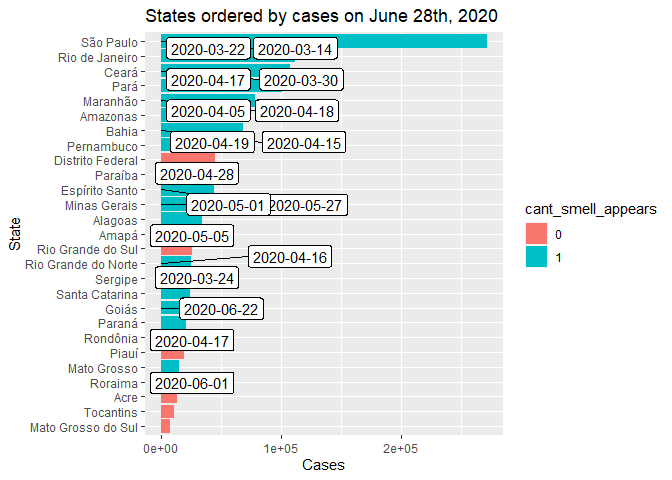
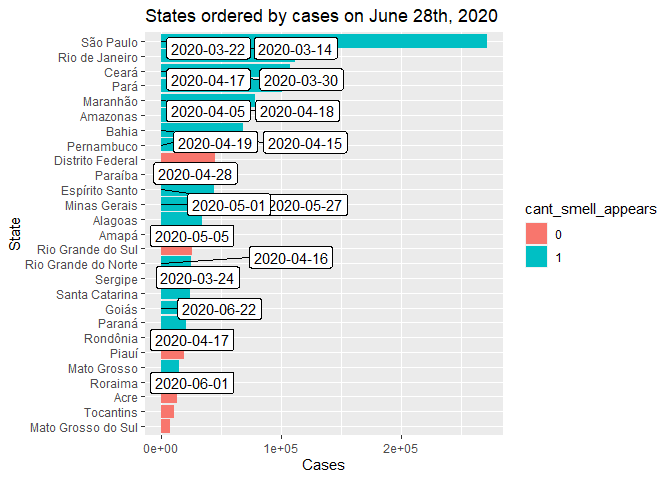
Updates to graphs

diff --git a/DataWork/google_trends/02a_analysis_with_refstat/05_analysis_with_restat.md b/DataWork/google_trends/02a_analysis_with_refstat/05_analysis_with_restat.md
@@ -377,6 +377,7 @@ trends_df %>%
   filter(date == "2020-06-28", !is.na(deaths)) %>% 
   count(deaths, state, cant_smell_appears, first_date_cant_smell) %>% 
   arrange(desc(deaths)) %>% 
+  mutate(cant_smell_appears = if_else(cant_smell_appears == 1, "Yes", "No")) %>% 
   ggplot()+ 
   geom_col(aes(fct_reorder(state, deaths), deaths, fill = cant_smell_appears)) +
   geom_label_repel(
@@ -392,10 +393,14 @@ trends_df %>%
   ) + 
   coord_flip() + 
   labs(
-    title = "States ordered by deaths on June 28th, 2020", 
+    title = "States ordered by COVID-19 deaths up to June 28th, 2020", 
     x = "State", 
-    y = "Deaths"
-  )
+    y = "COVID-19 Deaths", 
+    fill = "Search activity for I can't smell reported by Google", 
+    caption = "The white boxes indicate the date in which I can't smell\nappeared in Google Trends for the first time in each state", 
+    subtitle = "States where Google reported I can't smell searches are more affected by COVID-19,\nand the searches appeared earlier for most-affected states"
+  ) + 
+  theme_light()
 ```
 
 ![](05_analysis_with_restat_files/figure-html/unnamed-chunk-17-1.png)<!-- -->
@@ -478,7 +483,7 @@ trends_df %>%
 ```
 
 ```
-## # A tibble: 165,228 x 33
+## # A tibble: 167,874 x 33
 ##    date        hits hits_with_comps~ keyword geo   time  gprop category
 ##    <date>     <dbl>            <dbl> <chr>   <chr> <chr> <chr> <chr>   
 ##  1 2020-01-01     0                0 ajuda ~ BR-MG 2020~ web   0       
@@ -491,7 +496,7 @@ trends_df %>%
 ##  8 2020-01-08     0                0 ajuda ~ BR-MG 2020~ web   0       
 ##  9 2020-01-09     0                0 ajuda ~ BR-MG 2020~ web   0       
 ## 10 2020-01-10     0                0 ajuda ~ BR-MG 2020~ web   0       
-## # ... with 165,218 more rows, and 25 more variables: hits_compstate <dbl>,
+## # ... with 167,864 more rows, and 25 more variables: hits_compstate <dbl>,
 ## #   hits_adj <dbl>, state <chr>, sub_code_red <chr>, region <fct>, cases <int>,
 ## #   deaths <int>, estimate_2018_state <int>, census_2010_state <int>,
 ## #   perc_change <dbl>, categories <chr>, case_rate <dbl>, death_rate <dbl>,
@@ -525,7 +530,8 @@ week_geo <-
     mean_growth_rate_cases = mean(growth_rate_cases, na.rm = TRUE), 
     mean_growth_rate_deaths = mean(growth_rate_deaths, na.rm = TRUE), 
     sum_cases = sum(cases, na.rm = TRUE), 
-    sum_deaths = sum(deaths, na.rm = TRUE)
+    sum_deaths = sum(deaths, na.rm = TRUE), 
+    week_median_date = mean(date, na.rm = TRUE)
   ) %>% 
   ungroup()
 
@@ -983,6 +989,106 @@ write.csv(
 ```
 
 
+## Review of final Graph - using actual cases and deaths (not aggregated at weekly level)
+
+
+```r
+week_df %>% 
+  filter(!is.na(weeks_since_max_cant_smell)) %>%
+  group_by(week_number, state) %>% 
+  summarize(
+    mean_cases = mean(mean_cases, na.rm = TRUE), 
+    mean_deaths = mean(mean_deaths, na.rm = TRUE), 
+    week_max_days = mean(week_max_days, na.rm = TRUE), 
+    week_number_date = mean(week_median_date)
+  ) %>% 
+  mutate(week_max_days_date = if_else(week_number == week_max_days, week_number_date, NA_Date_)) %>% 
+  ggplot() +
+  geom_line(aes(week_number_date, mean_cases)) + 
+  geom_vline(aes(xintercept = week_max_days_date), linetype = "dashed") +
+  facet_wrap(vars(state)) + 
+  labs(
+    title = "Evolution in COVID-19 cases in Brazilian states relative to I can't smell searches",
+    x = "Date", 
+    y = "COVID-19 cases", 
+    caption = "The vertical dashed line indicates the week with the most I can't smell appearances"
+    ) +
+  theme_light() + 
+  scale_y_continuous(
+    labels = scales::unit_format(scale = 1/1000, suffix = "k")
+  ) 
+```
+
+![](05_analysis_with_restat_files/figure-html/unnamed-chunk-35-1.png)<!-- -->
+
+
+```r
+week_df %>% 
+  filter(!is.na(weeks_since_max_cant_smell)) %>%
+  group_by(week_number, state) %>% 
+  summarize(
+    mean_cases = mean(mean_cases, na.rm = TRUE), 
+    mean_deaths = mean(mean_deaths, na.rm = TRUE), 
+    week_max_days = mean(week_max_days, na.rm = TRUE), 
+    week_number_date = mean(week_median_date)
+  ) %>% 
+  mutate(week_max_days_date = if_else(week_number == week_max_days, week_number_date, NA_Date_)) %>% 
+  ggplot() +
+  geom_line(aes(week_number_date, mean_cases)) + 
+  geom_vline(aes(xintercept = week_max_days_date), linetype = "dashed") +
+  facet_wrap(vars(state), scales = "free_y") + 
+  labs(
+    title = "Evolution in COVID-19 cases in Brazilian states relative to I can't smell searches",
+    x = "Date", 
+    y = "COVID-19 cases", 
+    caption = "The vertical dashed line indicates the week with the most I can't smell appearances"
+    ) +
+  theme_light() + 
+  scale_y_continuous(
+    labels = scales::unit_format(scale = 1/1000, accuracy = 1, suffix = "k")
+  ) 
+```
+
+![](05_analysis_with_restat_files/figure-html/unnamed-chunk-36-1.png)<!-- -->
+
+
+Double checking the COVID-19 cases in the previous graph is correct (Not needed)
+
+
+```r
+weekly_data_to_merge <- 
+  week_df %>% 
+  filter(!is.na(weeks_since_max_cant_smell)) %>%
+  group_by(week_number, state) %>% 
+  summarize(
+    mean_cases = mean(mean_cases, na.rm = TRUE), 
+    mean_deaths = mean(mean_deaths, na.rm = TRUE), 
+    week_max_days = mean(week_max_days, na.rm = TRUE), 
+    week_number_date = mean(week_median_date)
+  ) %>% 
+  mutate(week_max_days_date = if_else(week_number == week_max_days, week_number_date, NA_Date_)) 
+
+trends_df %>% 
+  left_join(weekly_data_to_merge, by = "week_number") %>% 
+  group_by(geo) %>% 
+  ggplot() +
+  geom_line(aes(week_number_date, cases)) + 
+  #geom_vline(aes(xintercept = week_max_days_date), linetype = "dashed") +
+  facet_wrap(vars(geo)) + 
+  labs(
+    title = "Evolution in COVID-19 cases in Brazilian states relative to I can't smell searches",
+    x = "Date", 
+    y = "Average number of cases in a week", 
+    caption = "The vertical dashed line indicates the week with the most I can't smell appearances"
+    ) +
+  theme_light() + 
+  scale_y_continuous(
+    labels = scales::unit_format(scale = 1/1000, suffix = "k")
+  )   
+```
+
+![](05_analysis_with_restat_files/figure-html/unnamed-chunk-37-1.png)<!-- -->
+
 
 ## Correlations between I can't smell and covid cases
 
@@ -1058,6 +1164,31 @@ We replicate the table of correlations from day -3 to day 3 for each state
 #         panel.border = element_blank(),
 #         panel.background = element_blank(),
 #         axis.ticks = element_blank())
+```
+
+
+```r
+week_df %>% 
+  filter(!is.na(weeks_since_max_cant_smell), state == "Maranhão") %>% 
+  count(week_number, days_cant_smell)
+```
+
+```
+## # A tibble: 26 x 4
+## # Groups:   geo [1]
+##    geo   week_number days_cant_smell     n
+##    <chr>       <dbl>           <int> <int>
+##  1 BR-MA           1              NA     1
+##  2 BR-MA           2              NA     1
+##  3 BR-MA           3              NA     1
+##  4 BR-MA           4              NA     1
+##  5 BR-MA           5              NA     1
+##  6 BR-MA           6              NA     1
+##  7 BR-MA           7              NA     1
+##  8 BR-MA           8              NA     1
+##  9 BR-MA           9              NA     1
+## 10 BR-MA          10              NA     1
+## # ... with 16 more rows
 ```
 
 
